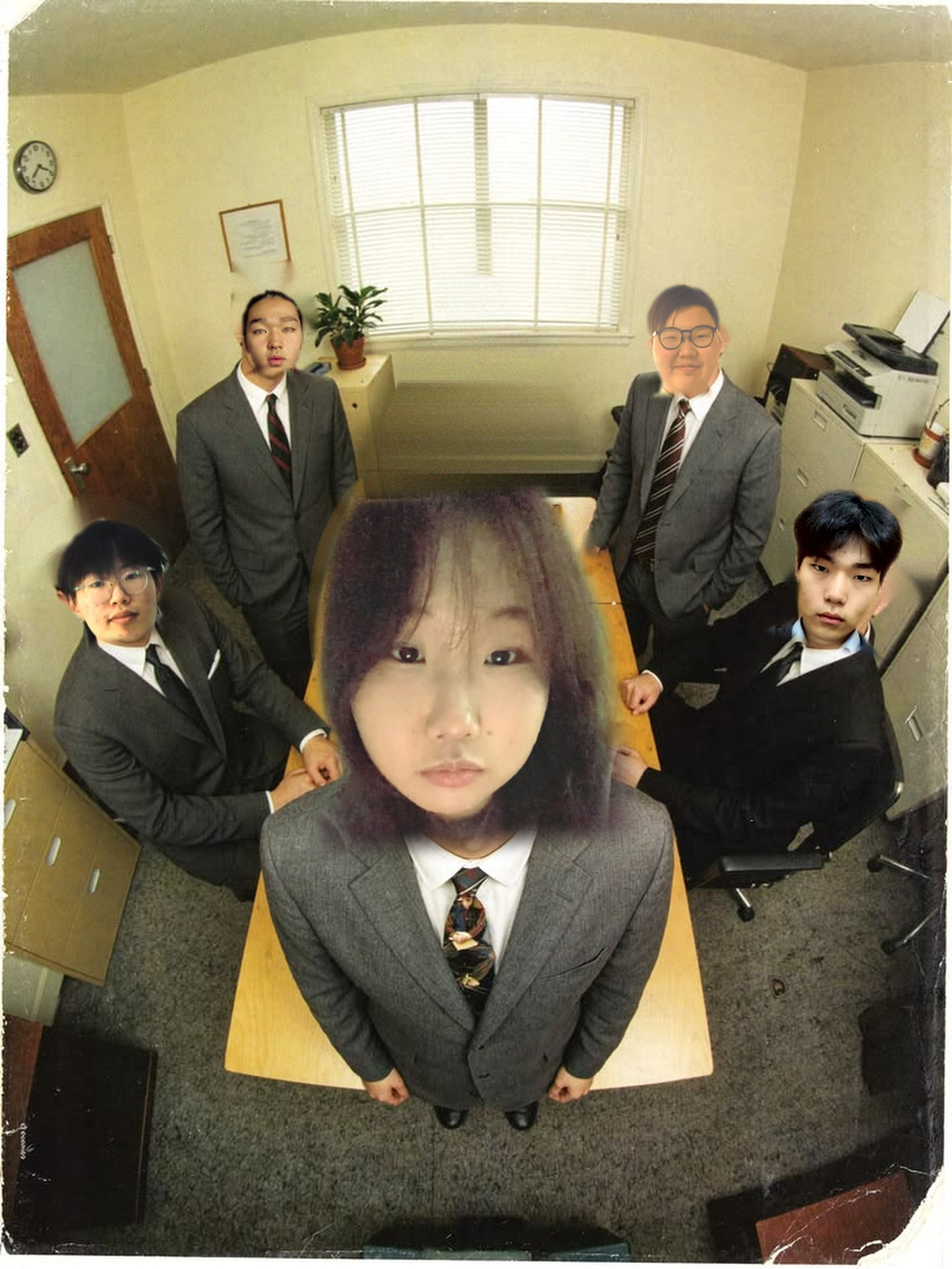
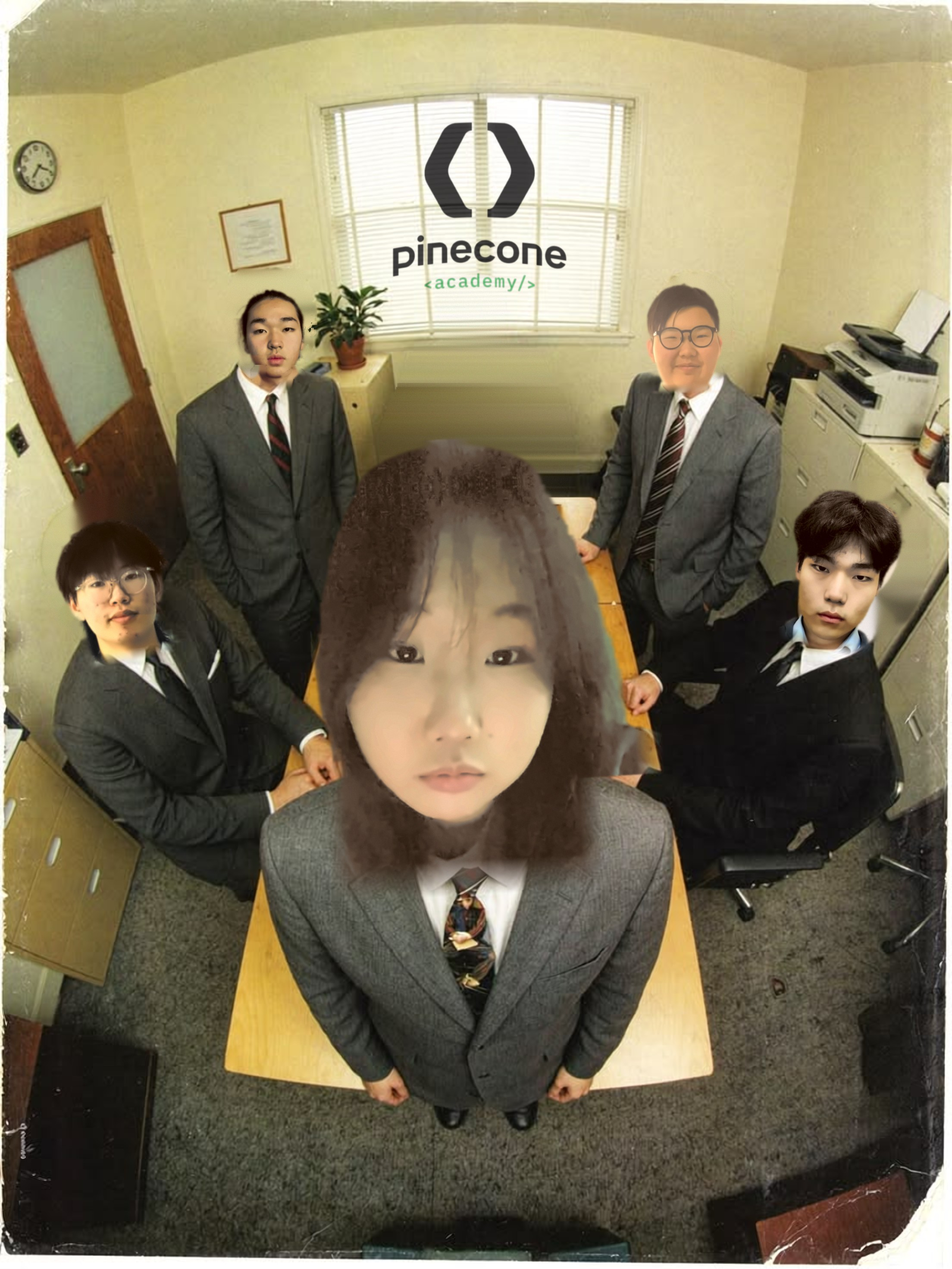
Update slides content and team photo

diff --git a/components/SlideView.tsx b/components/SlideView.tsx
@@ -174,6 +174,17 @@ function render(s: Slide, onNext: () => void, onRestart: () => void) {
         </>
       );
 
+    case 'title':
+      return (
+        <div className="text-center">
+          <motion.h1 variants={wrap} style={hStyle} className="font-display text-[clamp(2.5rem,min(12vw,16vh),8.5rem)] leading-[1.05]">
+            <motion.span variants={item} className="block">{s.title[0]}</motion.span>{' '}
+            <motion.span variants={item} className="block" style={{ color: 'var(--accent)' }}>{s.title[1]}</motion.span>
+          </motion.h1>
+          <motion.div aria-hidden="true" variants={item} className="mx-auto mt-8 h-px w-36 bg-gradient-to-r from-transparent via-[#EFC081] to-transparent" />
+        </div>
+      );
+
     case 'hero':
       return (
         <div className="grid items-center gap-12 lg:grid-cols-2">
@@ -187,24 +198,31 @@ function render(s: Slide, onNext: () => void, onRestart: () => void) {
       );
 
     case 'stats': {
-      const [main, ...rest] = STATS;
+      const [main, entrants] = STATS;
+      const sourceClass = 'text-sm opacity-70 underline decoration-white/40 underline-offset-4 hover:opacity-100';
       return (
-        <div className="grid items-center gap-12 lg:grid-cols-[1.2fr_1fr]">
+        <div className="grid items-center gap-x-12 gap-y-8 lg:grid-cols-[1.2fr_1fr]"
+          style={{ textShadow: '0 1px 3px var(--bg), 0 0 8px var(--bg)' }}>
           <div>
-            <Pill>{s.eyebrow}</Pill>
             <H>{s.title}</H>
-            <motion.p variants={pop} style={hStyle} className="mt-6 font-display text-[6rem] leading-none md:text-[10rem]"><Accent>{main.value}</Accent></motion.p>
+            <motion.p variants={pop} style={hStyle} className="mt-6 font-display text-[clamp(2.75rem,10vw,7rem)] leading-none"><Accent>{main.value}</Accent></motion.p>
             <motion.p variants={item} className="font-display text-xl font-bold md:text-2xl">{main.label}</motion.p>
-            <motion.p variants={item} className="mt-2 text-xs opacity-40">{main.source}</motion.p>
+            <motion.p variants={item} className="mt-2">
+              <a className={sourceClass} href={main.sourceUrl} target="_blank" rel="noopener noreferrer">{main.source}</a>
+            </motion.p>
           </div>
           <div className="space-y-8">
-            {rest.map((st, i) => (
-              <motion.div key={i} variants={item} className="border-t-2 pt-6" style={{ borderColor: 'color-mix(in srgb, var(--fg) 18%, transparent)' }}>
-                <p style={hStyle} className="font-display text-6xl">{st.value}</p>
-                <p className="mt-2 text-xl font-bold">{st.label}</p>
-                <p className="mt-1 text-xs opacity-40">{st.source}</p>
-              </motion.div>
-            ))}
+            <motion.div variants={item} className="border-t border-white/20 pt-6">
+              <p style={hStyle} className="font-display text-5xl md:text-6xl">{entrants.value}</p>
+              <p className="mt-2 text-xl font-bold">{entrants.label}</p>
+              <p className="mt-1">
+                <a className={sourceClass} href={entrants.sourceUrl} target="_blank" rel="noopener noreferrer">{entrants.source}</a>
+              </p>
+            </motion.div>
+            <motion.dl variants={item} className="border-t border-white/20 pt-6">
+              <dt className="font-display text-xl font-bold md:text-2xl">Сургуулиа сольсон сурагчид</dt>
+              <dd className="mt-2 opacity-75">Улсын хэмжээний жилийн тоо олдоогүй.</dd>
+            </motion.dl>
           </div>
         </div>
       );

diff --git a/data/slidesData.ts b/data/slidesData.ts
@@ -43,11 +43,19 @@ export const TEAM = {
 /** ✏ 1 сарын үнэ */
 export const PRICE = '[Үнэ ₮]';
 
-/** ✏ Статистик — ЖИШЭЭ. Өөрийн тоогоор солино. Эхнийх нь том харагдана. */
 export const STATS = [
-  { value: 'XX%', label: 'эцэг эх сургууль сонгохдоо эргэлздэг', source: '[Манай судалгаа, n=___]' },
-  { value: 'XX,XXX', label: 'сурагч жил бүр шилждэг', source: '[Эх сурвалж]' },
-  { value: 'XX%', label: 'ам дамжсан мэдээлэлд найддаг', source: '[Манай судалгаа]' },
+  {
+    value: '819,907',
+    label: 'Монгол Улсын ЕБС-ийн нийт сурагч',
+    source: 'Боловсролын яам · 2025–2026',
+    sourceUrl: 'https://moe.gov.mn/post/170077',
+  },
+  {
+    value: '75,890',
+    label: '1-р ангид шинээр элссэн хүүхэд',
+    source: 'Боловсролын яам · 2025–2026 · А-БДБ-7',
+    sourceUrl: 'https://moe.gov.mn/post/170077',
+  },
 ];
 
 export type Theme = 'dark' | 'fms' | 'yarii' | 'team';
@@ -61,8 +69,9 @@ export type Slide =
   | (Base & { type: 'teamGroup'; eyebrow: string; title: string; subtitle: string })
   | (Base & { type: 'member'; idx: number })
   | (Base & { type: 'split'; title: string; projects: { name: string; tag: string; img: string }[] })
+  | (Base & { type: 'title'; title: [string, string] })
   | (Base & { type: 'hero'; eyebrow: string; title: string; subtitle: string; img: string })
-  | (Base & { type: 'stats'; eyebrow: string; title: string })
+  | (Base & { type: 'stats'; title: string })
   | (Base & { type: 'cards'; eyebrow: string; title: string; variant: 'default' | 'problem' | 'solution'; cards: Card[] })
   | (Base & { type: 'question'; eyebrow: string; title: string })
   | (Base & { type: 'demo'; eyebrow: string; title: string; subtitle: string; url: string; cta: string; img: string; restart?: boolean })
@@ -89,12 +98,11 @@ export const slides: Slide[] = [
       { name: 'Yarii Mongola', tag: 'Хэл + Соёл + AI', img: IMG.yarii },
     ] },
 
-  { id: 'fms-hero', type: 'hero', theme: 'fms', cam: { pos: [6, 2, 9] },
-    eyebrow: 'Төсөл 01', title: 'Find My School',
-    subtitle: 'Сургуулиа ухаалгаар сонго', img: IMG.fms },
+  { id: 'fms-hero', type: 'title', theme: 'fms', cam: { pos: [6, 2, 9] },
+    title: ['Find My', 'School'] },
 
   { id: 'fms-stats', type: 'stats', theme: 'fms', cam: { pos: [2, 5, 10] },
-    eyebrow: 'Судалгаа', title: 'Бодит Тоо Баримт' },
+    title: 'ЕБС-ийн сурагчид' },
 
   { id: 'fms-audience', type: 'cards', variant: 'default', theme: 'fms', cam: { pos: [-6, 1, 9] },
     eyebrow: 'Хэнд?', title: 'Зорилтот Хэрэглэгчид',
